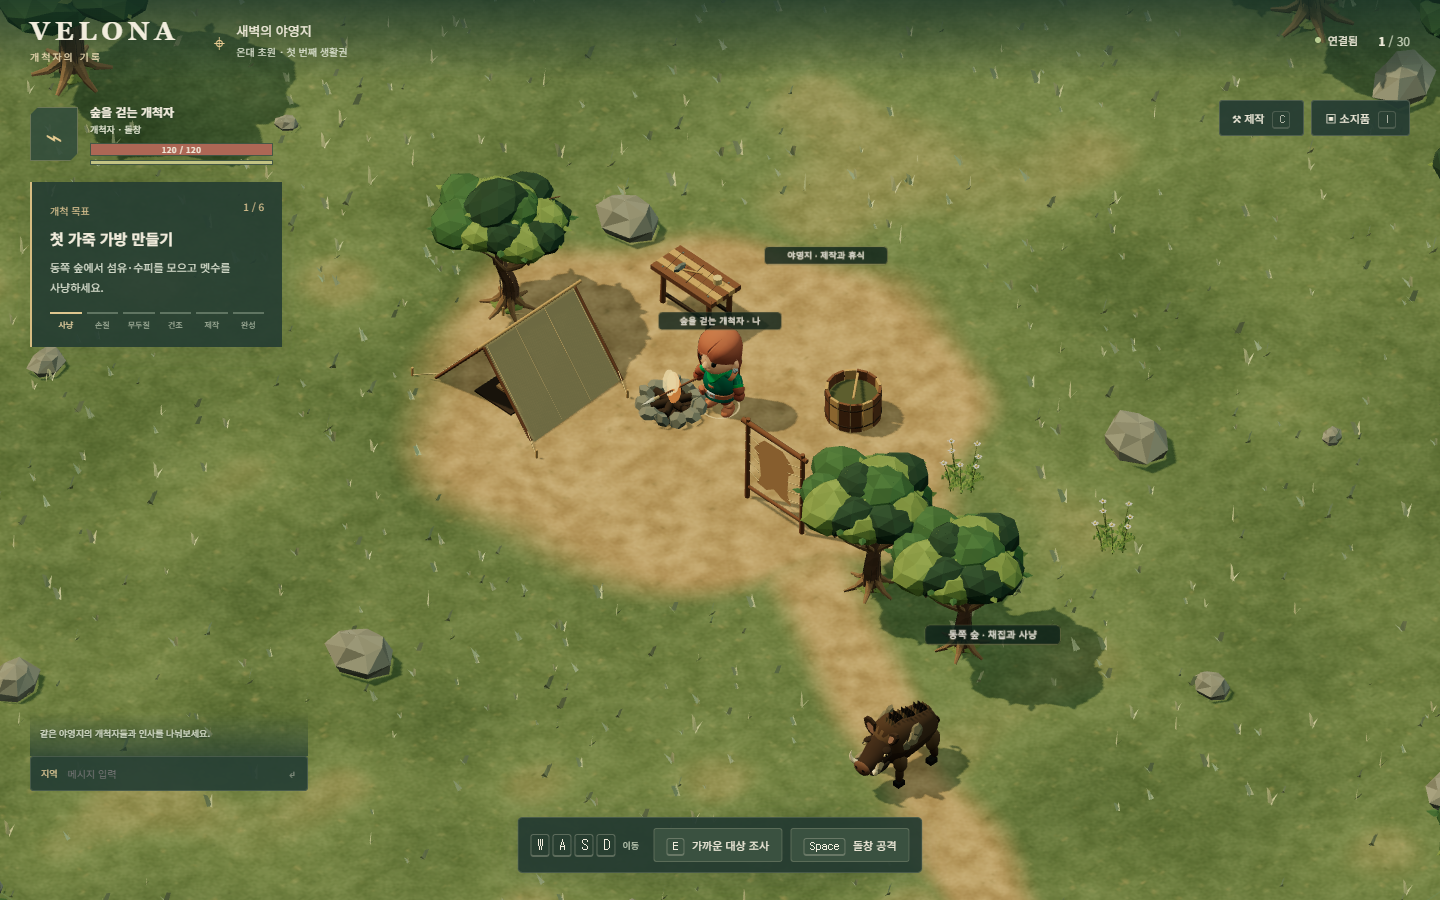
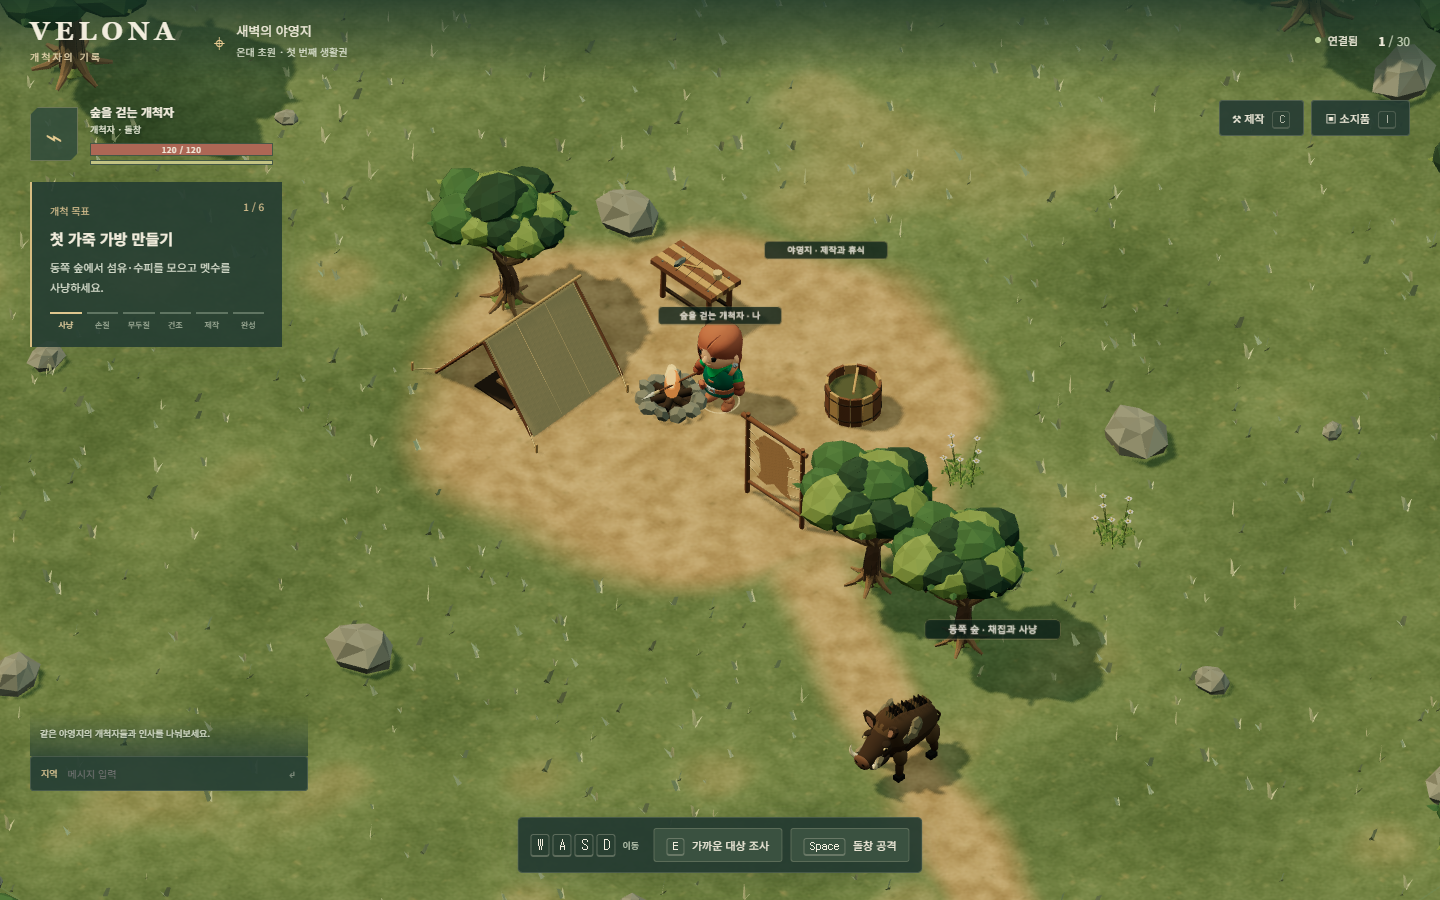
perf: cull forest cells and avoid continuous WebGL trace captures

diff --git a/frontend/e2e/world.spec.ts b/frontend/e2e/world.spec.ts
@@ -98,8 +98,8 @@ async function screenshotAndPixels(page: Page, info: TestInfo, name: string) {
 test('two browser identities share movement and chat without typing moving the explorer', async ({ browser }, info) => {
   // CI renders both WebGL views in software; include screenshot readback and context shutdown.
   test.setTimeout(90_000);
-  const first = await browser.newContext({ viewport: { width: 1440, height: 900 } });
-  const second = await browser.newContext({ viewport: { width: 1280, height: 800 } });
+  const first = await browser.newContext({ viewport: { width: 1280, height: 720 } });
+  const second = await browser.newContext({ viewport: { width: 960, height: 640 } });
   const a = await first.newPage(); const b = await second.newPage();
   const errors: string[] = [];
   a.on('pageerror', e => errors.push(e.message)); b.on('pageerror', e => errors.push(e.message));
@@ -142,12 +142,14 @@ test('real UI hunt, harvest, tanning, drying and binding produces the first bag'
   await walkTo(page, corpse, 2.1);
   await page.keyboard.press('e');
   await expect(page.getByTestId('gather-panel')).toBeVisible();
-  await page.screenshot({ path: info.outputPath('gathering-material-list.png') });
   await expect(page.getByTestId('gather-option-signature')).toBeDisabled();
   await page.getByTestId('gather-option-hide').click();
   await expect(page.getByTestId('gathering-progress')).toBeVisible();
   expect(await inventory(page, 'raw_hide')).toBe(0);
   await expect.poll(() => inventory(page, 'raw_hide')).toBeGreaterThanOrEqual(3);
+  // A software GPU can spend seconds reading pixels; secure the time-limited
+  // corpse reward before collecting the UI evidence.
+  await page.screenshot({ path: info.outputPath('gathering-material-list.png') });
 
   // Visit each resource explicitly; an arrival tolerance must not put bark out of range.
   await walkTo(page, { x: 4.5, z: 4.5 });

diff --git a/frontend/playwright.config.ts b/frontend/playwright.config.ts
@@ -6,7 +6,9 @@ const frontend = 'http://127.0.0.1:5174';
 export default defineConfig({
   testDir: './e2e', timeout: 45_000, expect: { timeout: 8_000 }, workers: 1,
   reporter: process.env.CI ? [['github'], ['html', { open: 'never' }]] : [['list'], ['html', { open: 'never' }]],
-  use: { baseURL: frontend, browserName: 'chromium', screenshot: 'only-on-failure', trace: 'retain-on-failure', launchOptions: { args: ['--use-gl=angle', '--use-angle=swiftshader', '--enable-unsafe-swiftshader'] } },
+  // Keep DOM/network traces, but avoid continuous WebGL screenshot readbacks
+  // that stall software GPUs. Explicit visual/pixel captures remain in tests.
+  use: { baseURL: frontend, browserName: 'chromium', screenshot: 'only-on-failure', trace: { mode: 'retain-on-failure', screenshots: false, snapshots: true, sources: true }, launchOptions: { args: ['--use-gl=angle', '--use-angle=swiftshader', '--enable-unsafe-swiftshader'] } },
   webServer: [
     { command: `dotnet run --project ../backend/Velona.Server --no-launch-profile --urls ${backend}`, url: backend + '/health', env: { ASPNETCORE_ENVIRONMENT: 'Development', DOTNET_ENVIRONMENT: 'Development', Persistence__Enabled: process.env.VELONA_E2E_POSTGRES === '1' ? 'true' : 'false' }, reuseExistingServer: false, timeout: 120_000 },
     { command: 'npm run dev -- --port 5174', url: frontend, env: { VELONA_BACKEND_URL: backend }, reuseExistingServer: false, timeout: 60_000 },

diff --git a/frontend/src/game/environment.ts b/frontend/src/game/environment.ts
@@ -46,7 +46,11 @@ export function instanceScenery(source: THREE.Group) {
   const batches = new Map<string, { mesh: THREE.Mesh; transforms: THREE.Matrix4[] }>();
   source.traverse(object => {
     if (!(object instanceof THREE.Mesh) || Array.isArray(object.material)) return;
-    const key = object.geometry.uuid + object.material.uuid;
+    // Separate spatial cells keep an offscreen tree from making the entire
+    // forest batch visible to the camera and shadow pass.
+    const position = new THREE.Vector3().setFromMatrixPosition(object.matrixWorld);
+    const cell = `${Math.floor(position.x / 10)},${Math.floor(position.z / 10)}:`;
+    const key = cell + object.geometry.uuid + object.material.uuid;
     if (!batches.has(key)) batches.set(key, { mesh: object, transforms: [] });
     batches.get(key)!.transforms.push(object.matrixWorld.clone());
   });

diff --git a/frontend/src/game/WorldScene.ts b/frontend/src/game/WorldScene.ts
@@ -33,7 +33,7 @@ export class WorldScene {
     this.scene.background = new THREE.Color(0xa7b9ab); this.scene.fog = new THREE.Fog(0xa7b9ab, 43, 78);
     this.scene.add(new THREE.HemisphereLight(0xe5eddc, 0x484733, 1.65));
     const sun = new THREE.DirectionalLight(0xffe0ae, 2.5); sun.position.set(-14, 24, 8); sun.castShadow = true;
-    const shadowSize = window.innerWidth < 700 ? 1024 : 2048; sun.shadow.mapSize.set(shadowSize, shadowSize);
+    sun.shadow.mapSize.set(1024, 1024);
     sun.shadow.camera.left = -28; sun.shadow.camera.right = 28; sun.shadow.camera.top = 28; sun.shadow.camera.bottom = -28; sun.shadow.normalBias = .035; sun.shadow.bias = -.00015; this.scene.add(sun);
     const rim = new THREE.DirectionalLight(0xc8dfda, .5); rim.position.set(10, 10, -15); this.scene.add(rim);
     this.scene.add(createTerrain());

diff --git a/docs/development/06-forest-art.md b/docs/development/06-forest-art.md
@@ -36,17 +36,17 @@ GEMINI_API_KEY=MISSING
 
 ## 렌더링 예산과 측정
 
-기준 예산은 데스크톱 300호출/75만 삼각형, 모바일 150호출/30만 삼각형이다. 반복 수목·바위·풀은 인스턴스, 야영지와 생물의 작은 형상은 재료별 병합을 사용한다. 나무는 템플릿당 4메시/3,512삼각형, 멧수는 11메시/6,804삼각형이다. 그림자는 광원 1개, 데스크톱 최초 생성 2048·모바일 최초 생성 1024 지도, DPR 상한1.5, 후처리0패스다. 창 크기만 변경하면 최초 그림자 지도 크기를 유지한다.
+기준 예산은 데스크톱 300호출/75만 삼각형, 모바일 150호출/30만 삼각형이다. 반복 수목·바위·풀은 인스턴스, 야영지와 생물의 작은 형상은 재료별 병합을 사용한다. 숲은 10미터 공간 셀로 나눠 화면 밖 묶음을 생략한다. 나무는 템플릿당 4메시/3,512삼각형, 멧수는 11메시/6,804삼각형이다. 그림자는 광원 1개·1024 지도, DPR 상한1.5, 후처리0패스다.
 
 | 확인 상태 | 호출 | 삼각형 | 형상 | 텍스처 | 색 엔트로피 | 경계 밀도 | 밝기 대비 |
 | --- | ---: | ---: | ---: | ---: | ---: | ---: | ---: |
-| PC 야영지 1440×900 | 74 | 225,967 | 50 | 9 | 4.41 | 0.101 | 99.1 |
-| PC 재료 목록 | 77 | 225,973 | 50 | 12 | 4.91 | 0.114 | 111.9 |
-| PC 채집 진행 | 77 | 225,973 | 50 | 12 | 4.92 | 0.117 | 111.2 |
-| PC 공격 입력 | 77 | 225,973 | 50 | 12 | 4.54 | 0.107 | 100.2 |
-| 모바일 390×844 | 69 | 219,493 | 50 | 12 | 5.36 | 0.151 | 110.7 |
+| PC 야영지 1440×900 | 114 | 89,237 | 50 | 9 | 4.41 | 0.101 | 99.1 |
+| PC 재료 목록 | 114 | 100,059 | 50 | 12 | 4.90 | 0.114 | 111.9 |
+| PC 채집 진행 | 113 | 99,967 | 50 | 12 | 4.91 | 0.115 | 111.2 |
+| PC 공격 입력 | 114 | 100,059 | 50 | 12 | 4.52 | 0.107 | 100.1 |
+| 모바일 390×844 | 61 | 40,650 | 50 | 12 | 5.39 | 0.152 | 112.0 |
 
-진단은 플레이어1명, DPR1 화면에서 캡처했다. 최대 지배 색상 점유율은0.248이며 빈 단색 캔버스가 아니다. 모바일 행은 화면 크기 변경에 대한 확인이고 실제 휴대전화 GPU 속도·30명 밀집 프레임을 측정한 값은 아니다. 두 사용자 동시 접속·전체 제작은 별도 Playwright 경로로 확인한다. 소프트웨어 렌더러의 시간은 실제 GPU 프레임 성능으로 주장하지 않는다.
+진단은 플레이어1명, DPR1 화면에서 캡처했다. 최대 지배 색상 점유율은0.249이며 빈 단색 캔버스가 아니다. 셀 분리 전 같은 PC 야영지는225,967삼각형/74호출, 모바일은219,493삼각형/69호출이었다. PC에서는 호출이 늘어나는 대신 화면 밖 정점 처리를 약60% 줄였고, 모바일은 약81% 줄였다. 모바일 행은 화면 크기 변경에 대한 확인이고 실제 휴대전화 GPU 속도·30명 밀집 프레임을 측정한 값은 아니다. 두 사용자 동시 접속·전체 제작은 별도 Playwright 경로로 확인한다. 소프트웨어 렌더러의 시간은 실제 GPU 프레임 성능으로 주장하지 않는다.
 
 실제 형상은 표시만 담당하며 서버의 단순 원형 충돌을 유지한다. 나뭇잎과 작은 시각 장식에는 별도 충돌을 추가하지 않았다. 충돌 모양과 시각 장식을 혼동하지 않도록 큰 장식 수목은 플레이 구역 가장자리에 배치했다.
 
@@ -75,5 +75,7 @@ GEMINI_API_KEY=MISSING
 프론트 단위7개·타입 검사·배포 빌드, 브라우저 모델 로딩, PC/모바일 캡처, 페이지·콘솔 오류0, 실제 키 입력·시간 채집을 확인했다. 브라우저5개 경로는 이동·두 사용자·사냥·해체·가죽 가방 제작·채집 중단·좁은 화면을 포함한다. 변경 중 화면 새로고침과 입력 종료 지연을 확인해 자동 걷기 검사가 키 해제 후 서버 위치가 안정된 것을 기다리도록 조정했다.
 
 화면 기준선은 아직 고정하지 않는다. 진행 중인 공유 월드와 서버 시각을 정지시키기 위한 쓰기 테스트 훅을 추가하지 않고, 기존 읽기 전용 관찰·실제 입력·자산 로딩·픽셀 통계·검토 캡처를 확장했다. `npm run test:e2e`, `npm run test:unit`, `npm run build`로 검증한다.
+
+GitHub의 소프트웨어 GPU에서 연속 추적 화면과 큰 동시 화면의 읽기 비용이 높았고, 사체 해체 전 화면 저장이20초 유효시간을 소모했다. 추적은 DOM·네트워크·소스를 유지하고 연속 필름 스트립만 제외했다. 명시적인 화면·픽셀 검사는 유지하며, 해체 보상을 확보한 뒤 목록 화면을 저장한다. 두 사용자 검사는1280×720/960×640, 별도 아트 캡처는1440×900/390×844로 확인한다. 서버의20초 사체 시간이나 작업·보상 규칙을 늘리지 않았다.
 
 진행 기록: 그래픽·3D 공급·이미지 공급·UI·QA 지침과 모델/렌더/기술 아트/시각 평가/셰이더/검증/반응형 참고를 읽고 적용했다. 그래픽·UI·QA 단계는 위 화면과 측정으로 확인했다. 신규 게임 설계·진행 체계·서버 규칙·음향 생성 단계는 기존 기능을 보존하는 이번 시각 작업 범위에서 제외했다. 자산 공급은 CC0 도입과 생성 도구 누락 근거를 기록했다.
